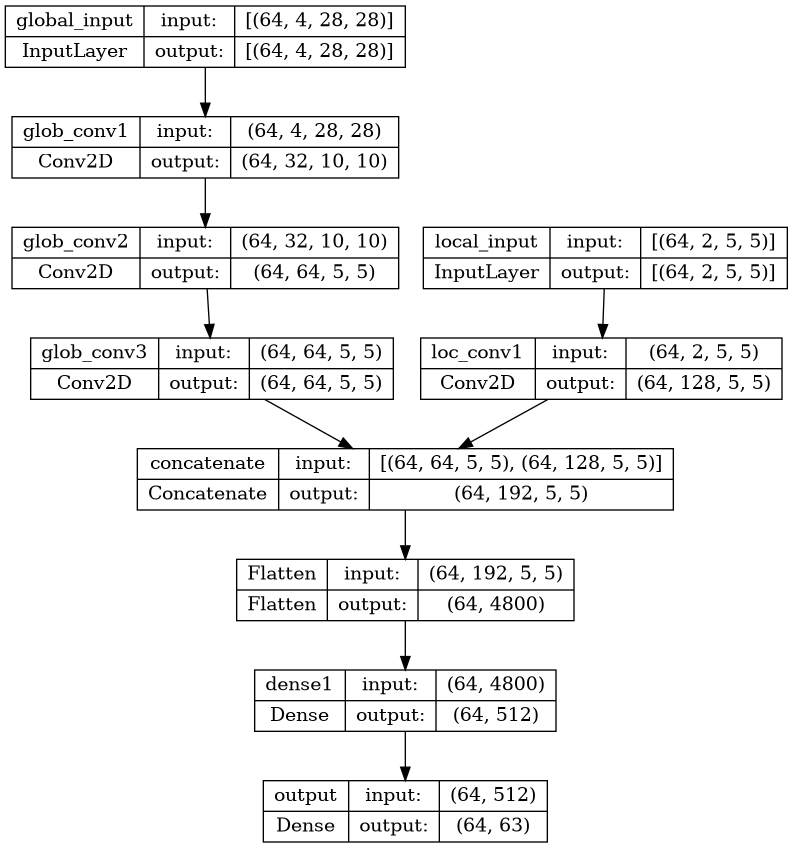
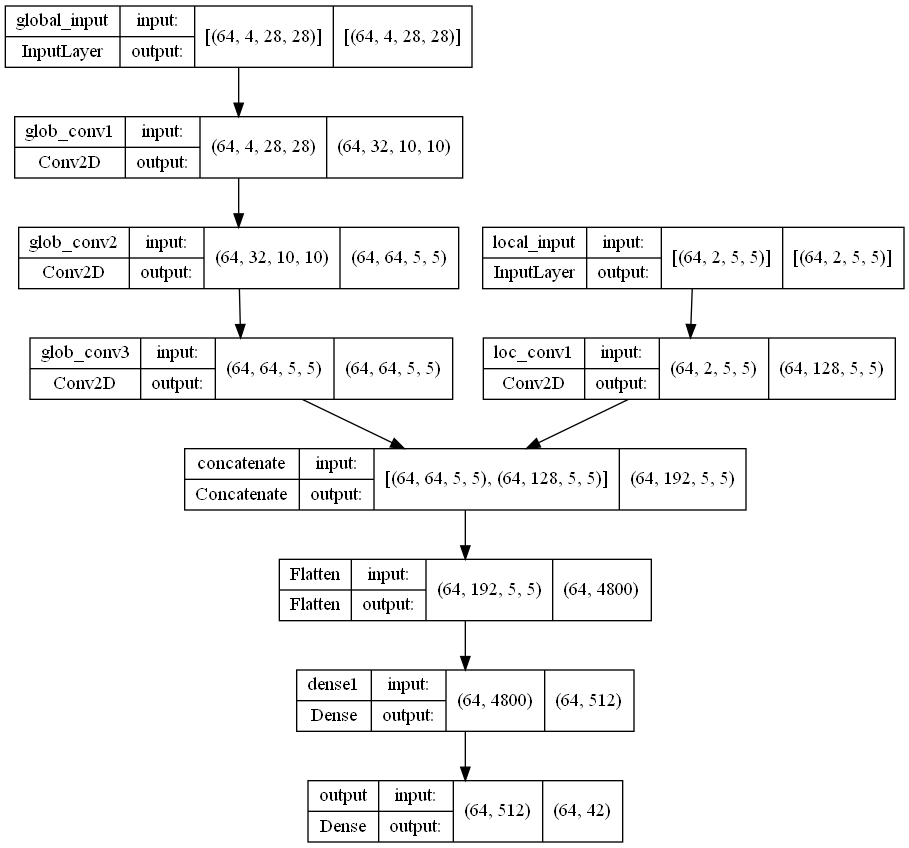
Revert "Redesigned action space parameters"
This reverts commit bb729847c22ae3f8d5f2919599c930bfba20cf94.

diff --git a/src/agent_modules/environment.py b/src/agent_modules/environment.py
@@ -6,7 +6,7 @@ from agent_modules.physics import Physic_Engine
 
 
 class ShapeDraw(object):
-    def __init__(self, sidelength: int, patchsize: int, referenceData: np.array, n_actions : int,  do_render : bool = True, max_action_strength : int = 2, friction: float = 0.2, vel_1: float = 0.8, vel_2: float = 1.2):
+    def __init__(self, sidelength: int, patchsize: int, referenceData: np.array, n_actions : int,  do_render : bool = True, max_action_strength : int = 1):
         self.s = sidelength
         self.p = patchsize  # sidelength of patch (local Input). must be odd
         self.max_action_strength = max_action_strength
@@ -22,20 +22,20 @@ class ShapeDraw(object):
         self.canvas_patch = np.zeros((self.p, self.p))
 
         # Physics
-        self.phy_settings = {"friction": friction, "action_scale": 1.0}
+        self.phy_settings = {"friction": 0.2, "action_scale": 1.0}
         self.phy = Physic_Engine(**self.phy_settings)
 
 
         # possible outputs
         # For each pixel, is an action option (location of that pixel)
-        self.n_actions = n_actions
+        self.n_actions = 42
         self.actions = [(0,0)]
         for i in range(8):
             angle = ma.pi/4*i
-            self.actions.append( (float('%.2f' % (ma.cos(angle)*vel_1)) , float('%.2f' % (ma.sin(angle)*vel_1))) )
+            self.actions.append( (float('%.2f' % (ma.cos(angle)*0.8)) , float('%.2f' % (ma.sin(angle)*0.8))) )
         for i in range(12):
             angle = ma.pi/6*i
-            self.actions.append( (float('%.2f' % (ma.cos(angle)*vel_2)) , float('%.2f' % (ma.sin(angle)*vel_2))) )
+            self.actions.append( (float('%.2f' % (ma.cos(angle)*1.2)) , float('%.2f' % (ma.sin(angle)*1.2))) )
 
         print(self.actions)
 
@@ -47,7 +47,7 @@ class ShapeDraw(object):
         self.isDrawing = 0 # 0 = not Drawing, 1 = Drawing (not bool because NN)
         self.agentPos = [0, 0] # initialize agent position to top left corner of the image
         self.set_agentPos([random.randint(1, self.s-2),
-                          random.randrange(1, self.s-2)], weight=1)  # Set a random start location for the agent (but with one pixel margin)
+                          random.randrange(1, self.s-2)])  # Set a random start location for the agent (but with one pixel margin)
 
         if do_render: self.fig, self.axs = plt.subplots(1, 2, figsize=[10,7])
         
@@ -64,12 +64,12 @@ class ShapeDraw(object):
         :rtype: tuple
         """
         
-        x, y, weight = self.translate_action(agent_action)
+        x, y = self.translate_action(agent_action)
         action = self.phy.calc_new_pos(self.agentPos, [x, y], update_velocity=True)
 
         penalty = 0
         if self.move_isLegal(action):
-            self.set_agentPos(action, weight)
+            self.set_agentPos(action)
         else:
             # Give a penalty for an illegal move
             penalty = -0.05
@@ -85,7 +85,7 @@ class ShapeDraw(object):
 
     def illegal_actions(self, illegal_list : np.array):
         for action in range(self.n_actions):
-            x, y, _ = self.translate_action(action)
+            x, y = self.translate_action(action)
             act = self.phy.calc_new_pos(self.agentPos, [x, y], update_velocity = False)
             illegal_list[action] = int(not self.move_isLegal(act))
         
@@ -118,13 +118,12 @@ class ShapeDraw(object):
         :rtype: tuple
         """
         self.isDrawing = 1
-        weight = int(action/(self.n_actions/self.max_action_strength))
-        action = action % int(self.n_actions/self.max_action_strength)
-        if weight == 0:
+        if action >= int(self.n_actions/2):
+            action -= int(self.n_actions/2)
             self.isDrawing = 0
 
         x, y = self.actions[action]
-        return x, y, weight
+        return x, y
 
 
     def reward(self):
@@ -154,7 +153,7 @@ class ShapeDraw(object):
         return reward
 
 
-    def set_agentPos(self, pos: list, weight: int):
+    def set_agentPos(self, pos: list):
         """
         set_agentPos Sets the agent to a new position.
 
@@ -162,7 +161,7 @@ class ShapeDraw(object):
         :type pos: list
         """
         if self.isDrawing:
-            self.canvas = drawline(self.agentPos, pos, self.canvas, weight=weight)
+            self.canvas = drawline(self.agentPos, pos, self.canvas)
         self.agentPos = pos
         self.update_distmap()
         self.update_patch()
@@ -231,7 +230,7 @@ class ShapeDraw(object):
         self.isDrawing = 0
         self.phy.velocity = [.0, .0]
         self.set_agentPos((random.randint(1, self.s-2),
-                          random.randint(1, self.s-2)), weight = 1)
+                          random.randint(1, self.s-2)))
 
         
         # Reset the reward by rerunning it on an empty canvas
@@ -300,7 +299,7 @@ class ShapeDraw(object):
 
 
 # draws Line directly on bitmap to save convert
-def drawline(setpos, pos, canvas, weight):
+def drawline(setpos, pos, canvas):
     """
     drawline Draw a line on a specified canvas.
 
@@ -313,7 +312,7 @@ def drawline(setpos, pos, canvas, weight):
     :return: The canvas with the line drawn
     :rtype: np.array
     """
-    weight = weight-1  # The weight of a stroke
+    weight = 1  # The weight of a stroke
     dx = pos[0] - setpos[0]  # delta x
     dy = pos[1] - setpos[1]  # delta y
     linePix = []  # Pixels of the line

diff --git a/src/optimizer.py b/src/optimizer.py
@@ -12,19 +12,18 @@ from rich.progress import track
 # constant parameters
 canvas_size = 28
 patch_size = 5
-n_actions = 12+8+1
+n_actions = 42
 episode_mem_size = 200
 batch_size = 64
 n_episodes = 1000
 n_steps = 64
 n_epochs = 1
+max_action_strength = 1
 
 
-def runner(gamma, epsilon, alpha, episode_mem_size, replace_target, friction, max_action_strength, vel_1, vel_2):
-    n_actions = n_actions * (max_action_strength)
+def runner(gamma, epsilon, alpha, episode_mem_size, replace_target):
     episode_mem_size = int(episode_mem_size)
     replace_target = int(replace_target)
-    max_action_strength = int(max_action_strength)
 
     # further calculations
     glob_in_dims = (4, canvas_size, canvas_size)
@@ -34,7 +33,7 @@ def runner(gamma, epsilon, alpha, episode_mem_size, replace_target, friction, ma
     data = AI_Data(path="src/data/train_ref_Data.json")
     data.sample(n_episodes)
     env = ShapeDraw(canvas_size, patch_size, data.pro_data,
-                    max_action_strength=max_action_strength, n_actions=n_actions, friction=friction, vel_1, vel_2)
+                    max_action_strength=max_action_strength, n_actions=n_actions)
     agent_args = {"gamma": gamma, "epsilon": epsilon, "alpha": alpha, "replace_target": replace_target,
                   "global_input_dims": glob_in_dims, "local_input_dims": loc_in_dims,
                   "mem_size": mem_size, "batch_size": batch_size,
@@ -96,7 +95,7 @@ if __name__ == '__main__':
     # Parameter list to optimize
     parameters = {"gamma": (0.001, 0.99), "epsilon": (
         0.1, 1), "alpha": (0.0001, 0.001),
-        "episode_mem_size": (25, 1000), "replace_target": (50, 3000), "friction": (0.01, 1), "vel_1": (0.1, 2), "vel_2": (0.1, 2), "max_action_strength": (2, 4.99)}
+        "episode_mem_size": (25, 1000), "replace_target": (50, 3000)}
 
     optimizer = BayesianOptimization(
         f=runner,

diff --git a/src/nn_train.py b/src/nn_train.py
@@ -15,21 +15,19 @@ if __name__ == '__main__':
     n_episodes = 4000
     n_steps = 64
     n_epochs = 3
-    max_action_strength = 3
-    n_actions = 12+8+1
-    vel_1, vel_2 = 0.8, 1.2
+    max_action_strength = 1
+    n_actions = 42
 
     # further calculations
     glob_in_dims = (4, canvas_size, canvas_size)
     loc_in_dims = (2, patch_size, patch_size)
     mem_size = episode_mem_size*n_steps
-    n_actions *= max_action_strength
 
     #load Data
     learn_plot = Learn_Plotter(path="src/result_stats/plotlearn_data.json")
     data = AI_Data(path="src/data/train_ref_Data.json")
     data.sample(n_episodes)
-    env = ShapeDraw(canvas_size, patch_size, data.pro_data, n_actions=n_actions, max_action_strength=max_action_strength, vel_1=vel_1, vel_2=vel_2)
+    env = ShapeDraw(canvas_size, patch_size, data.pro_data, n_actions=n_actions, max_action_strength=max_action_strength)
     agent_args = {"gamma": 0.66, "epsilon": 0.2, "alpha": 0.00075, "n_actions" : n_actions, "replace_target": 8000, 
                   "global_input_dims": glob_in_dims, "local_input_dims": loc_in_dims, 
                   "mem_size": mem_size, "batch_size": batch_size, 
@@ -73,11 +71,11 @@ if __name__ == '__main__':
                 next_gloabal_obs, next_local_obs, reward = env.step(action)
 
                 
-                if total_counter % 5 == 0 and total_counter > 200: 
+                """ if total_counter % 5 == 0 and total_counter > 200: 
                     env.render("Compare", realtime=True)
                     print(illegal_moves, action)
                     sleep(0.5)
-
+                """
 
                 # Save new information
                 agent.store_transition(
